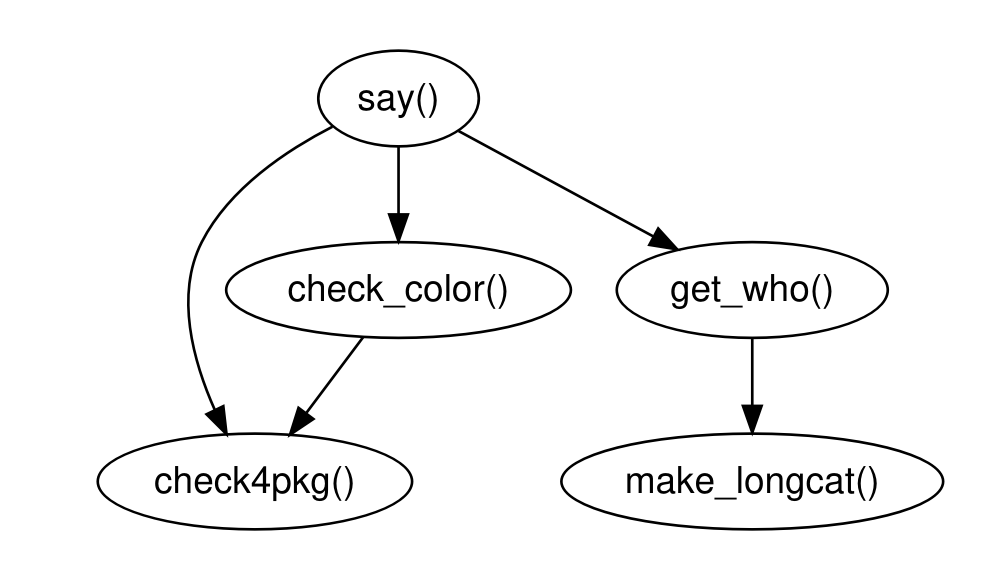
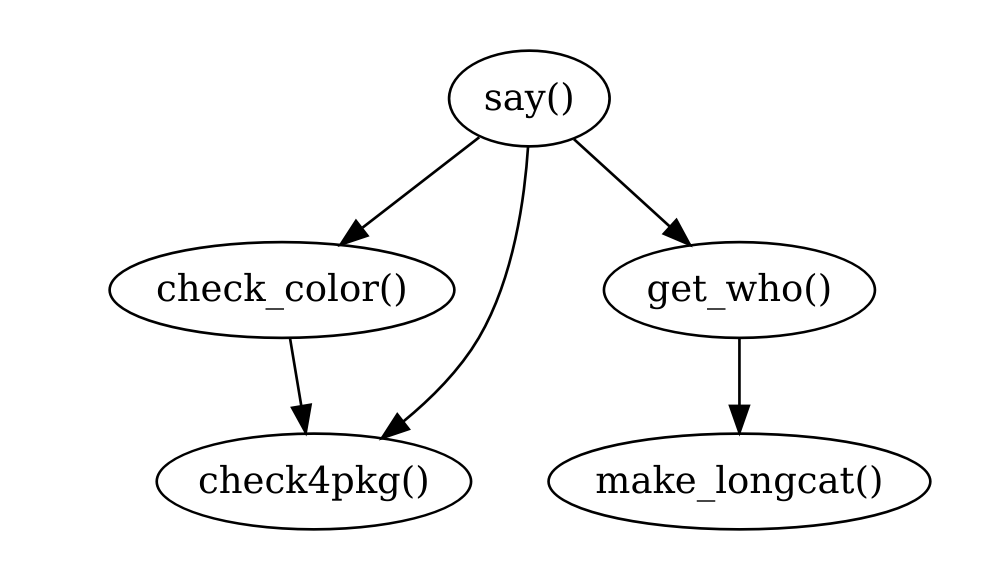
`devtools::document()` and rebuild README

diff --git a/README.md b/README.md
@@ -4,7 +4,6 @@
 # foodwebr
 
 <!-- badges: start -->
-
 <!-- badges: end -->
 
 `foodwebr` makes it easy to visualise the dependency graph of a set of
@@ -42,16 +41,17 @@ i.e. who calls who.
 fw <- foodweb()
 ```
 
-Printing the object will show the graphvis representation:
+Printing the object will show the graphviz representation:
 
 ``` r
 fw
-#> `foodweb` with 5 nodes and 6 edges:
-#> 
-#> digraph "<env: 0x3d96be0>" {
-#>   "g()" -> { "f()" }
-#>   "h()" -> { "f()", "g()" }
-#>   "i()" -> { "f()", "g()", "h()" }
+#> # A `foodweb`: 5 nodes and 6 edges
+#> digraph 'foodweb of <env: 0x557c89940640>' {
+#>   f()
+#>   g() -> { f() }
+#>   h() -> { f(), g() }
+#>   i() -> { f(), g(), h() }
+#>   j()
 #> }
 ```
 
@@ -90,10 +90,12 @@ as a character vector.
 
 ``` r
 foodweb(as.text = TRUE)
-#> digraph "<env: 0x3d96be0>" {
+#> digraph 'foodweb of <env: 0x557c89940640>' {
+#>   "f()"
 #>   "g()" -> { "f()" }
 #>   "h()" -> { "f()", "g()" }
 #>   "i()" -> { "f()", "g()", "h()" }
+#>   "j()"
 #> }
 ```
 
@@ -123,6 +125,8 @@ funmat
 #>      h 1 1 0 0 0
 #>      i 1 1 1 0 0
 #>      j 0 0 0 0 0
+#> attr(,"class")
+#> [1] "foodweb_funmat" "matrix"         "array"
 ```
 
 Note that self-calls are ignored (`funmat["j", "j"]` is zero even though
@@ -135,42 +139,40 @@ character string containing a [graphviz](https://graphviz.org/)
 specification:
 
 ``` r
-graphvis_spec <- graphviz_spec_from_matrix(funmat)
+graphviz_spec <- graphviz_spec_from_matrix(funmat)
 
-graphvis_spec
-#> digraph "foodweb" {
+graphviz_spec
+#> digraph 'foodweb of foodweb' {
+#>   "f()"
 #>   "g()" -> { "f()" }
 #>   "h()" -> { "f()", "g()" }
 #>   "i()" -> { "f()", "g()", "h()" }
+#>   "j()"
 #> }
 ```
 
 ### Visualisation
 
-We can visualise the graph specification using
-`Diagrammer::grViz()`.
+We can visualise the graph specification using `Diagrammer::grViz()`.
 
 ``` r
-DiagrammeR::grViz(graphvis_spec)
+DiagrammeR::grViz(graphviz_spec)
 ```
 
 <img src="man/figures/README-foodweb-plot-graph-spec-1.png" width="100%" />
 
 ## Using `tidygraph`
 
-A `foodweb` object can also be converted into a `tbl_graph` object using
-`tidygraph::as_tbl_graph()` to enable more sophisticated analysis.
+The [`tidygraph`](https://tidygraph.data-imaginist.com/) package
+provides tools for graph analysis. A `foodweb` object can be converted
+into a tidy graph object using `tidygraph::as_tbl_graph()` to allow more
+sophisticated analysis and visualisation.
 
 ``` r
 if (requireNamespace("tidygraph", quietly = TRUE)) {
   tg <- tidygraph::as_tbl_graph(foodweb())
-  
-  print(tg)
-  
-  plot(tg)
+  tg
 }
-#> Warning: replacing previous import 'vctrs::data_frame' by 'tibble::data_frame'
-#> when loading 'dplyr'
 #> # A tbl_graph: 5 nodes and 6 edges
 #> #
 #> # A directed acyclic simple graph with 2 components
@@ -192,5 +194,3 @@ if (requireNamespace("tidygraph", quietly = TRUE)) {
 #> 3     3     2
 #> # … with 3 more rows
 ```
-
-<img src="man/figures/README-foodweb-tidygraph-1.png" width="100%" />
